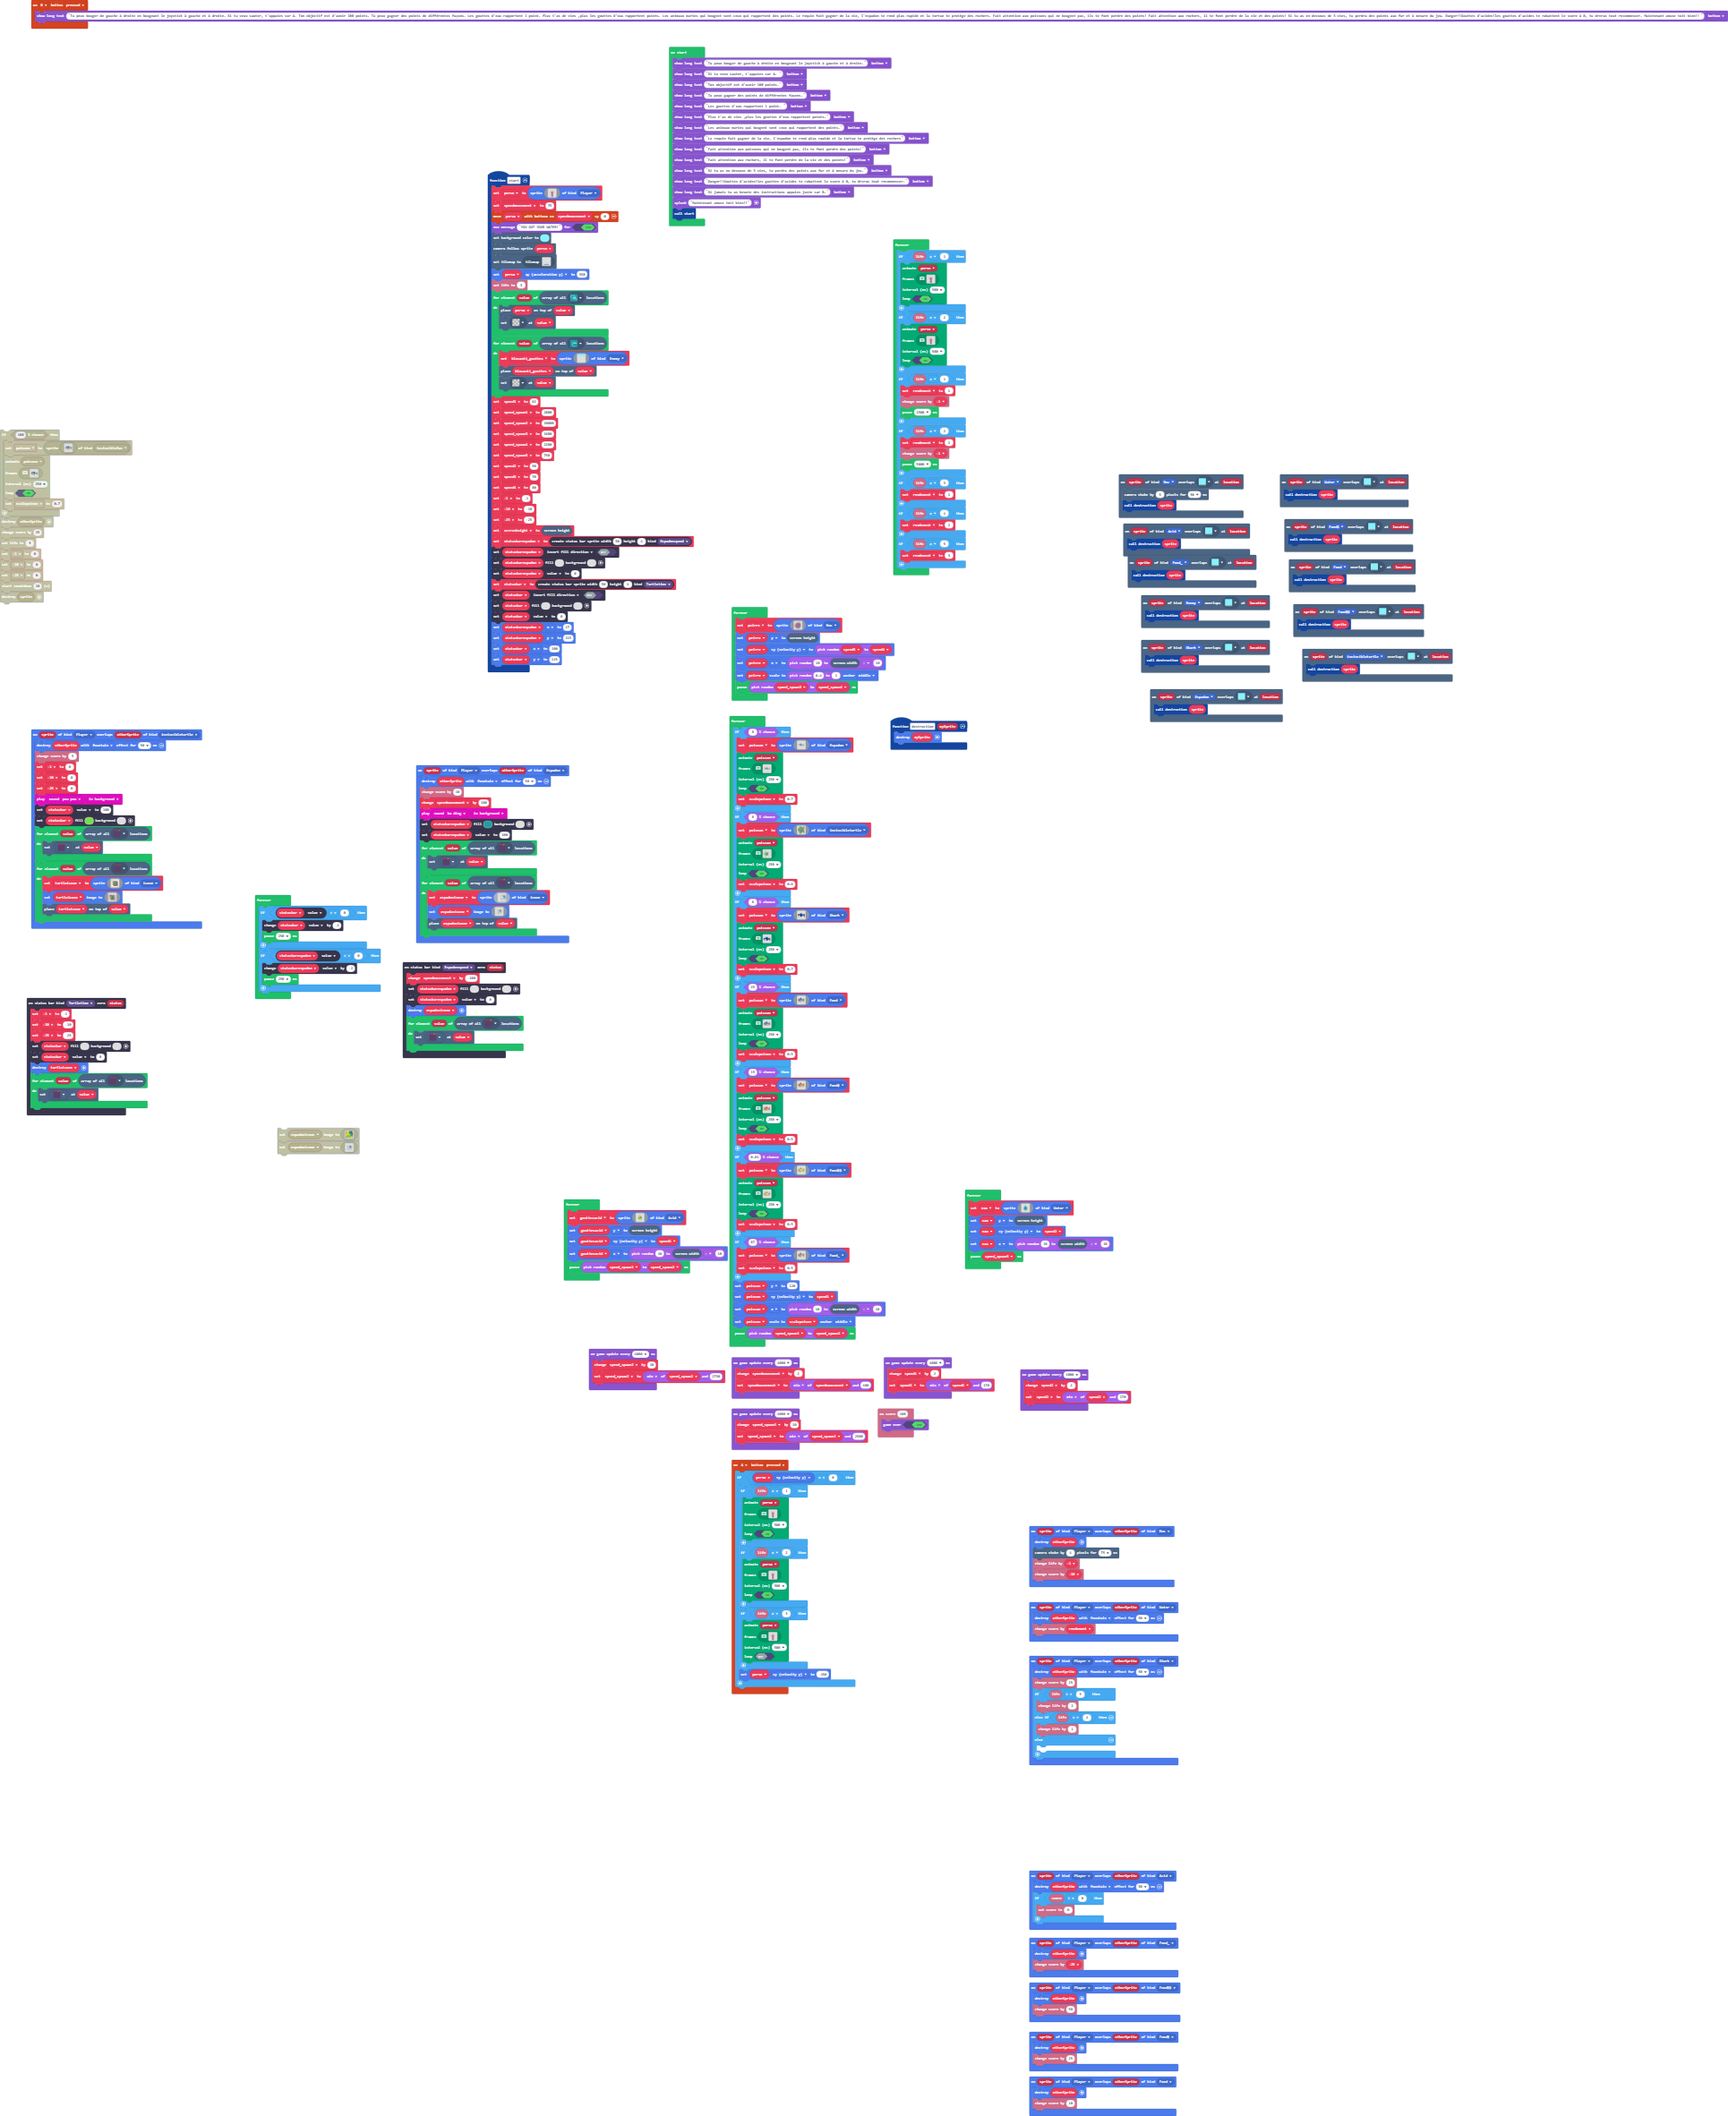
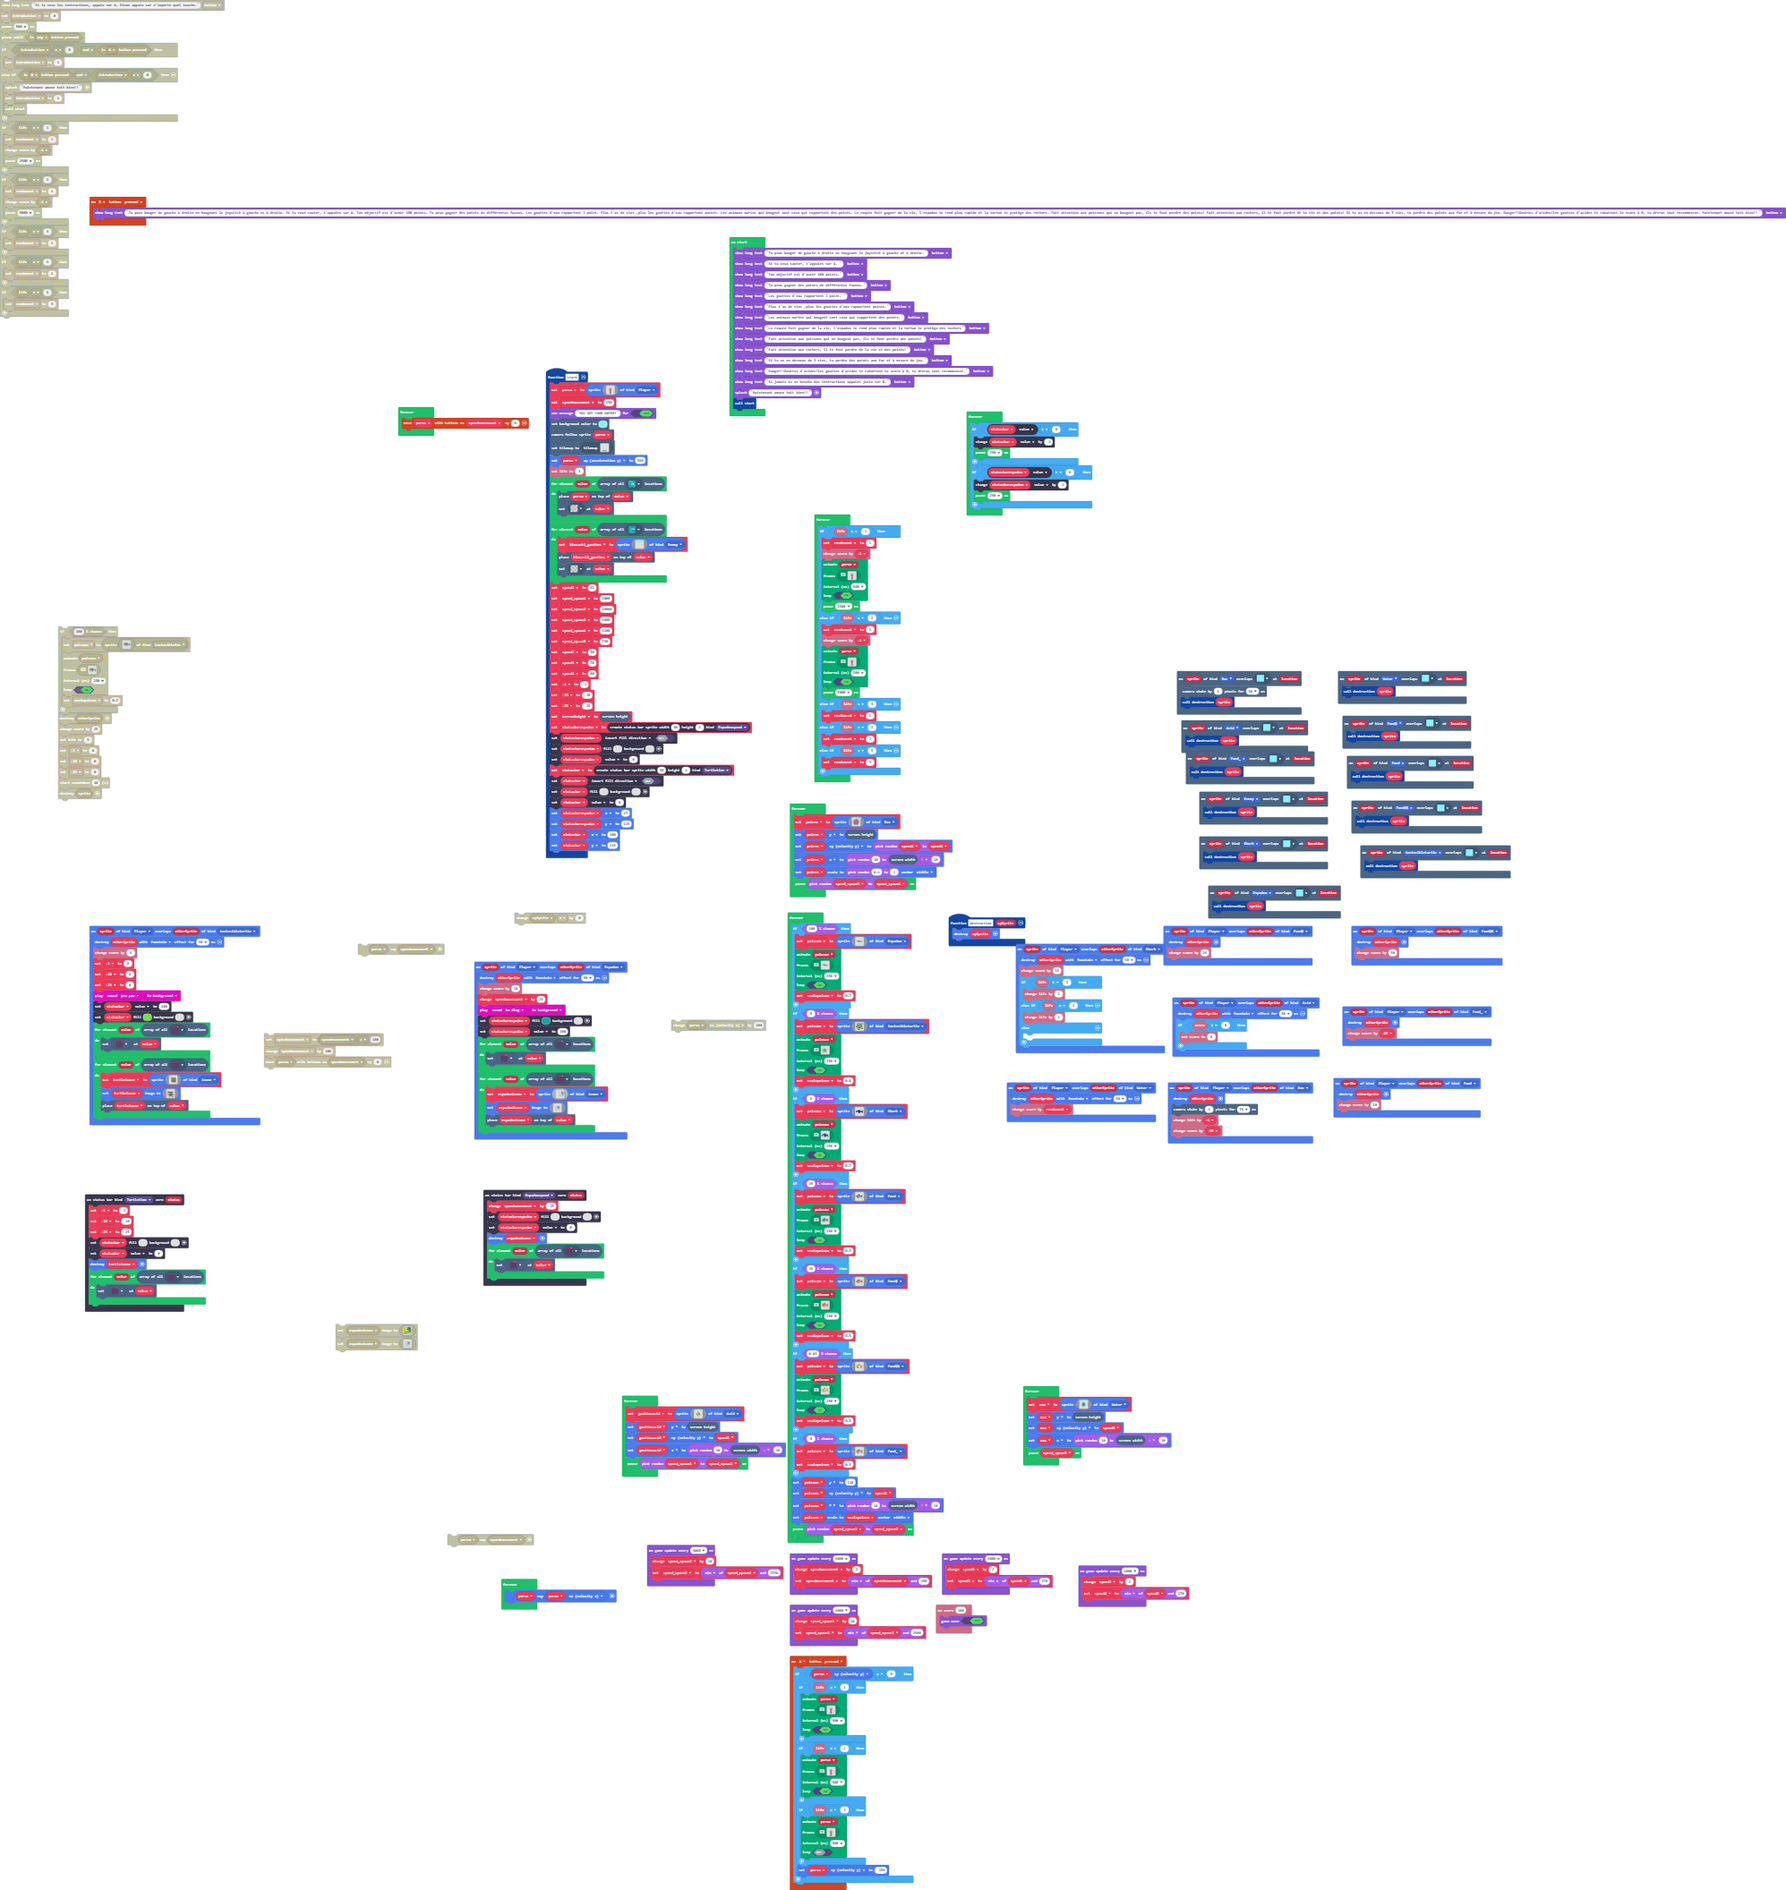
Update main.blocks, main.ts, tilemap.g.jres, tilemap.g.ts

diff --git a/main.ts b/main.ts
@@ -18,7 +18,7 @@ namespace StatusBarKind {
 sprites.onOverlap(SpriteKind.Player, SpriteKind.Espadon, function (sprite, otherSprite) {
     sprites.destroy(otherSprite, effects.fountain, 50)
     info.changeScoreBy(10)
-    speedmouvement += 100
+    speedmouvement += 25
     music.play(music.melodyPlayable(music.baDing), music.PlaybackMode.InBackground)
     statusbarespadon.setColor(6, 0)
     statusbarespadon.value = 100
@@ -240,7 +240,7 @@ scene.onOverlapTile(SpriteKind.Enemy, assets.tile`myTile9`, function (sprite, lo
     destruction(sprite)
 })
 statusbars.onZero(StatusBarKind.Espadonspeed, function (status) {
-    speedmouvement += -100
+    speedmouvement += -25
     statusbarespadon.setColor(0, 0)
     statusbarespadon.value = 0
     sprites.destroy(espadonicone)
@@ -398,8 +398,7 @@ function start () {
         .....888.888....
         .....aaa.aaa....
         `, SpriteKind.Player)
-    speedmouvement = 75
-    controller.moveSprite(perso, speedmouvement, 0)
+    speedmouvement = 150
     game.setGameOverMessage(true, "YOU GOT YOUR WATER!")
     scene.setBackgroundColor(9)
     scene.cameraFollowSprite(perso)
@@ -505,7 +504,7 @@ game.onUpdateInterval(4000, function () {
 })
 game.onUpdateInterval(4000, function () {
     speedmouvement += 2
-    speedmouvement = Math.min(speedmouvement, 400)
+    speedmouvement = Math.min(speedmouvement, 450)
 })
 game.onUpdateInterval(4000, function () {
     speed1 += 2
@@ -520,111 +519,116 @@ game.onUpdateInterval(4000, function () {
     speed_spawn1 = Math.min(speed_spawn1, 2500)
 })
 forever(function () {
-    if (info.life() == 1) {
-        animation.runImageAnimation(
-        perso,
-        [img`
-            ................
-            ................
-            ................
-            ................
-            ................
-            ................
-            ................
-            ................
-            ..bbbbbbbbbbbbb.
-            ..bbbbbbbbbbbbb.
-            ..bbbbbbbbbbbbb.
-            ...dbbbbbbbbbd..
-            ...ddbbbbbbbdd..
-            ...22bbbfbbb22..
-            ...22bffffbb22..
-            ...22.fffff.22..
-            ...22.fffff.22..
-            ...222ffffd222..
-            ....22.ddd.22...
-            ....222222222...
-            .....2222222....
-            .....2222222....
-            .....2222222....
-            .....2222222....
-            .....2222222....
-            .....2222222....
-            .....8888888....
-            .....8888888....
-            .....8888888....
-            .....888.888....
-            .....888.888....
-            .....888.888....
-            .....888.888....
-            .....888.888....
-            .....aaa.aaa....
-            `],
-        500,
-        true
-        )
+    controller.moveSprite(perso, speedmouvement, 0)
+})
+forever(function () {
+    if (statusbar.value > 0) {
+        statusbar.value += -2
+        pause(250)
     }
-    if (info.life() == 2) {
-        animation.runImageAnimation(
-        perso,
-        [img`
-            ................
-            ................
-            ................
-            ................
-            ................
-            ................
-            ................
-            ................
-            ..bbbbbbbbbbbbb.
-            ..bbbbbbbbbbbbb.
-            ..bbbbbbbbbbbbb.
-            ...dbbbbbbbbbd..
-            ...ddbbbbbbbdd..
-            ...22bbbfbbb22..
-            ...22bffffbb22..
-            ...22.fffff.22..
-            ...22.fffff.22..
-            ...222ffffd222..
-            ....22.ddd.22...
-            ....222222222...
-            .....2222222....
-            .....2222222....
-            .....2222222....
-            .....2222222....
-            .....2222222....
-            .....2222222....
-            .....8888888....
-            .....8888888....
-            .....8888888....
-            .....888.888....
-            .....888.888....
-            .....888.888....
-            .....888.888....
-            .....888.888....
-            .....aaa.aaa....
-            `],
-        500,
-        true
-        )
+    if (statusbarespadon.value > 0) {
+        statusbarespadon.value += -2
+        pause(250)
     }
+})
+forever(function () {
     if (info.life() == 1) {
         rendement = 1
         info.changeScoreBy(_1)
+        animation.runImageAnimation(
+        perso,
+        [img`
+            ................
+            ................
+            ................
+            ................
+            ................
+            ................
+            ................
+            ................
+            ..bbbbbbbbbbbbb.
+            ..bbbbbbbbbbbbb.
+            ..bbbbbbbbbbbbb.
+            ...dbbbbbbbbbd..
+            ...ddbbbbbbbdd..
+            ...22bbbfbbb22..
+            ...22bffffbb22..
+            ...22.fffff.22..
+            ...22.fffff.22..
+            ...222ffffd222..
+            ....22.ddd.22...
+            ....222222222...
+            .....2222222....
+            .....2222222....
+            .....2222222....
+            .....2222222....
+            .....2222222....
+            .....2222222....
+            .....8888888....
+            .....8888888....
+            .....8888888....
+            .....888.888....
+            .....888.888....
+            .....888.888....
+            .....888.888....
+            .....888.888....
+            .....aaa.aaa....
+            `],
+        500,
+        true
+        )
         pause(2500)
-    }
-    if (info.life() == 2) {
+    } else if (info.life() == 2) {
         rendement = 1
         info.changeScoreBy(_1)
+        animation.runImageAnimation(
+        perso,
+        [img`
+            ................
+            ................
+            ................
+            ................
+            ................
+            ................
+            ................
+            ................
+            ..bbbbbbbbbbbbb.
+            ..bbbbbbbbbbbbb.
+            ..bbbbbbbbbbbbb.
+            ...dbbbbbbbbbd..
+            ...ddbbbbbbbdd..
+            ...22bbbfbbb22..
+            ...22bffffbb22..
+            ...22.fffff.22..
+            ...22.fffff.22..
+            ...222ffffd222..
+            ....22.ddd.22...
+            ....222222222...
+            .....2222222....
+            .....2222222....
+            .....2222222....
+            .....2222222....
+            .....2222222....
+            .....2222222....
+            .....8888888....
+            .....8888888....
+            .....8888888....
+            .....888.888....
+            .....888.888....
+            .....888.888....
+            .....888.888....
+            .....888.888....
+            .....aaa.aaa....
+            `],
+        500,
+        true
+        )
         pause(5000)
-    }
-    if (info.life() == 3) {
+    } else if (info.life() == 3) {
         rendement = 1
-    }
-    if (info.life() == 4) {
+    } else if (info.life() == 4) {
         rendement = 2
-    }
-    if (info.life() == 5) {
+    } else if (info.life() == 5) {
         rendement = 3
     }
 })
@@ -654,7 +658,7 @@ forever(function () {
     pause(randint(speed_spawn3, speed_spawn4))
 })
 forever(function () {
-    if (Math.percentChance(8)) {
+    if (Math.percentChance(100)) {
         poisson = sprites.create(img`
             ........................................
             ...............ccccc....................
@@ -1289,7 +1293,7 @@ forever(function () {
         )
         scalepoison = 0.5
     }
-    if (Math.percentChance(87)) {
+    if (Math.percentChance(0)) {
         poisson = sprites.create(img`
             ...........ffff...............
             ..........feeef...............
@@ -1315,16 +1319,6 @@ forever(function () {
     poisson.x = randint(10, scene.screenWidth() - 10)
     poisson.setScale(scalepoison, ScaleAnchor.Middle)
     pause(randint(speed_spawn1, speed_spawn2))
-})
-forever(function () {
-    if (statusbar.value > 0) {
-        statusbar.value += -2
-        pause(250)
-    }
-    if (statusbarespadon.value > 0) {
-        statusbarespadon.value += -2
-        pause(250)
-    }
 })
 forever(function () {
     gouttesacid = sprites.create(img`
@@ -1373,4 +1367,7 @@ forever(function () {
     eau.vy = speed2
     eau.x = randint(10, scene.screenWidth() - 10)
     pause(speed_spawn5)
+})
+forever(function () {
+    perso.sayText(perso.vx)
 })

diff --git a/tilemap.g.ts b/tilemap.g.ts
@@ -59,6 +59,25 @@ namespace myTiles {
 . . . . . . . . . . 
 2 2 2 2 2 2 2 2 2 2 
 `, [myTiles.transparency16,myTiles.tile3,myTiles.tile7,myTiles.tile8,myTiles.tile9,myTiles.tile10,myTiles.tile11,myTiles.tile18], TileScale.Sixteen);
+            case "level2":
+            case "level2":return tiles.createTilemap(hex`1000100000000000000000000000000000000000000000000000000000000000000000000000000000000000000000000000000000000000000000000000000000000000000000000000000000000000000000000000000000000000000000000000000000000000000000000000000000000000000000000000000000000000000000000000000000000000000000000000000000000000000000000000000000000000000000000000000000000000000000000000000000000000000000000000000000000000000000000000000000000000000000000000000000000000000000000000000000000000000000000000000000000000000000000000000000000000`, img`
+. . . . . . . . . . . . . . . . 
+. . . . . . . . . . . . . . . . 
+. . . . . . . . . . . . . . . . 
+. . . . . . . . . . . . . . . . 
+. . . . . . . . . . . . . . . . 
+. . . . . . . . . . . . . . . . 
+. . . . . . . . . . . . . . . . 
+. . . . . . . . . . . . . . . . 
+. . . . . . . . . . . . . . . . 
+. . . . . . . . . . . . . . . . 
+. . . . . . . . . . . . . . . . 
+. . . . . . . . . . . . . . . . 
+. . . . . . . . . . . . . . . . 
+. . . . . . . . . . . . . . . . 
+. . . . . . . . . . . . . . . . 
+. . . . . . . . . . . . . . . . 
+`, [myTiles.transparency16], TileScale.Sixteen);
         }
         return null;
     })
